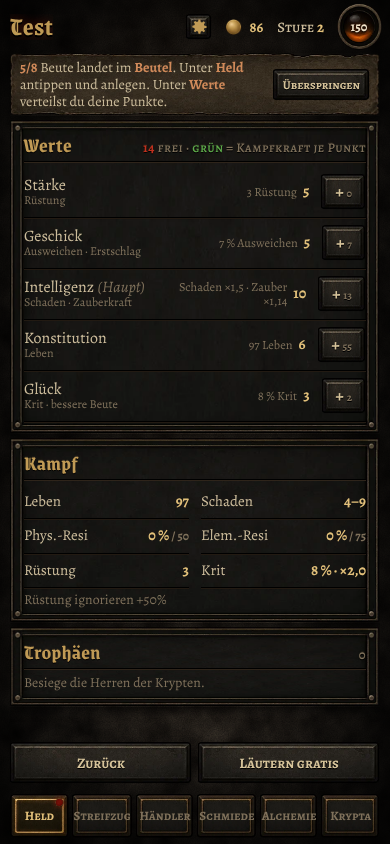
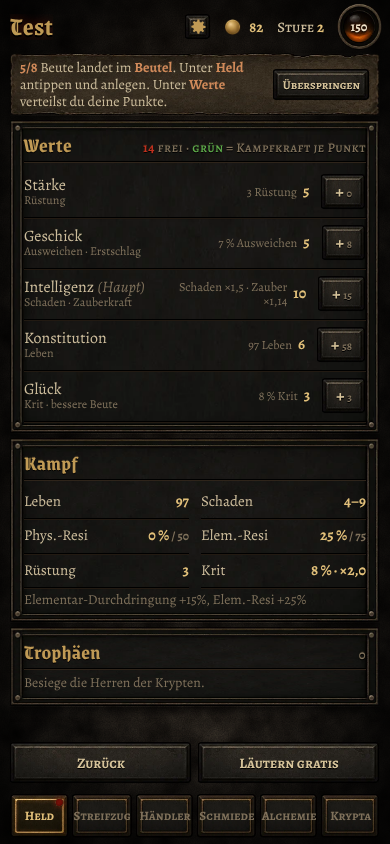
Welle 2a, Schritt 3: Elementar-Durchdringung, Fluch der Tiefe (gedeckelt), Ausgleich gemessen
- Elementar-Durchdringung (PoE): feste Punkte nach dem Deckel, darf unter 0; Bonus nur auf Stäben
- Zauberin-Passiv: 15 % Durchdringung + 25 % Elem.-Resi statt „ignoriert Rüstung zur Hälfte“
- Abgrund: −10 % Elem.-Resi je 10 Tiefen, höchstens −30 %, nur Elementar; Anzeige auf dem Tiefen-Bildschirm
- Zauberin-Hänger (~30 % der Bot-Läufe) gefunden: Feuer/Eis der Monster an ihrer Rüstung vorbei → eigene Resi,
  Monster-Spitzen höchstens 50 % Elementar
- Sternenfall −35 %, Glöckner ohne Resi; Trank-Test 600 Kämpfe; bot.mjs BOTDIAG
- Bericht, Screenshots (Abgrund mit Fluch)

Claude-Session: https://claude.ai/code/session_01K7GT1nk687RBNm1gtTozav

diff --git a/js/data.js b/js/data.js
@@ -4,7 +4,7 @@ export const CLASSES = {
   paladin:   { name: 'Paladin', main: 'str', portrait: 'paladin', hp: 5, desc: 'Heiliger Schild. Blockt 25% aller Angriffe.', weapon: 'sword', passive: { block: 0.25 } },
   assassin:  { name: 'Assassine', main: 'dex', portrait: 'assassin', hp: 5.5, desc: 'Klingen im Schatten. Erhöhte kritische Treffer, Bluten.', weapon: 'dagger', passive: { crit: 0.12, bleed: 0.25 } },
   huntress:  { name: 'Jägerin', main: 'dex', portrait: 'huntress', hp: 4.5, desc: 'Pfeil und Geduld. Erster Schuss immer vor dem Gegner.', weapon: 'bow', passive: { first: 1 } },
-  sorceress: { name: 'Zauberin', main: 'int', portrait: 'sorceress', hp: 4.6, desc: 'Arkanes Feuer. Ignoriert Rüstung zur Hälfte.', weapon: 'staff', passive: { pen: 0.5 } },
+  sorceress: { name: 'Zauberin', main: 'int', portrait: 'sorceress', hp: 4.6, desc: 'Arkanes Feuer. Selbst 25 % Elem.-Resi, durchdringt 15 % Elem.-Resi der Gegner.', weapon: 'staff', passive: { elemPen: 0.15, elemRes: 0.25 } },
   witch:     { name: 'Grabhexe', main: 'int', portrait: 'witch', hp: 4.6, desc: 'Totenmagie. Entzieht 20% des Schadens als Leben.', weapon: 'wand', passive: { leech: 0.2 } },
 };
 // Welle 1a (Besitzer 2026-11-21): nur diese drei sind wählbar. Paladin, Jägerin, Hexe bleiben im Code und kommen später wieder.
@@ -90,6 +90,8 @@ export const AFFIXES = [
   // Resistenzen (Welle 2a): klein je Teil (Stufe I ≈ 9–10 %), Deckel CFG.resCap – beide auf 75 % zu bringen braucht fast jeden Platz.
   // Eigene Gruppen: ein Teil darf beide tragen. per geeicht gegen Konstitution (tests/calib.mjs).
   { stat: 'physr', per: 1.5, pre: 'Eherner', suf: 'des Steins', pct: 1, label: 'Phys.-Resi', side: 'suf', slots: RES_SLOTS },
+  // Elementar-Durchdringung (PoE): nur auf Stäben – wirkt nur auf Feuer/Eis, sonst toter Bonus für Hieb-Klassen
+  { stat: 'elempenp', per: 1, pre: 'Glühender', suf: 'der Durchdringung', pct: 1, label: 'Elem.-Durchdringung', side: 'pre', slots: ['weapon'], kind: 'staff' },
   { stat: 'elemr', per: 2, pre: 'Gebannter', suf: 'der Elemente', pct: 1, label: 'Elem.-Resi', side: 'suf', slots: RES_SLOTS },
 ];
 // Zauber-Boni (nur auf Waffen der Klasse, die den Zauber hat): "+N % Feuerball" stärkt Schaden/Heilung/Schild/Wirkung des Zaubers.
@@ -290,12 +292,12 @@ export const SELL = { share: 0.5, legendMat: 1,
 
 // mix/res: Schadensart und Resistenz (siehe ELEMENTS) – vor dem Kampf sichtbar (Vorbereitung, enemyInfo)
 export const MONSTERS = [
-  { name: 'Verfaulter Ghul', glyph: 'ghul', mat: 'zahn' }, { name: 'Gefallener', glyph: 'fallen', mat: 'asche', mix: { fire: 0.5 } },
+  { name: 'Verfaulter Ghul', glyph: 'ghul', mat: 'zahn' }, { name: 'Gefallener', glyph: 'fallen', mat: 'asche', mix: { fire: 0.4 } },
   { name: 'Skelettkrieger', glyph: 'skelett', mat: 'staub', mix: { cold: 0.3 }, res: { phys: 0.1 } }, { name: 'Grabräuber', glyph: 'grabraeuber', mat: 'leinen' },
-  { name: 'Pestratte', glyph: 'pestratte', mat: 'schwanz' }, { name: 'Kultist der Glocke', glyph: 'kultist', mat: 'siegel', mix: { fire: 0.6 }, res: { elem: 0.1 } },
-  { name: 'Blutfürst', glyph: 'blutfuerst', mat: 'blutstein', mix: { fire: 0.4 } }, { name: 'Sumpfhexe', glyph: 'sumpfhexe', mat: 'haar', mix: { cold: 0.7 }, res: { elem: 0.15 } },
+  { name: 'Pestratte', glyph: 'pestratte', mat: 'schwanz' }, { name: 'Kultist der Glocke', glyph: 'kultist', mat: 'siegel', mix: { fire: 0.4 }, res: { elem: 0.1 } },
+  { name: 'Blutfürst', glyph: 'blutfuerst', mat: 'blutstein', mix: { fire: 0.4 } }, { name: 'Sumpfhexe', glyph: 'sumpfhexe', mat: 'haar', mix: { cold: 0.5 }, res: { elem: 0.15 } },
   { name: 'Knochenhund', glyph: 'knochenhund', mat: 'staub', mix: { cold: 0.3 } }, { name: 'Gehäuteter', glyph: 'gehaeuteter', mat: 'blutstein' },
-  { name: 'Höllenbrut', glyph: 'hoellenbrut', mat: 'asche', mix: { fire: 0.7 }, res: { elem: 0.2 } }, { name: 'Wiedergänger', glyph: 'wiedergaenger', mat: 'leinen', mix: { cold: 0.5 } },
+  { name: 'Höllenbrut', glyph: 'hoellenbrut', mat: 'asche', mix: { fire: 0.5 }, res: { elem: 0.2 } }, { name: 'Wiedergänger', glyph: 'wiedergaenger', mat: 'leinen', mix: { cold: 0.4 } },
 ];
 
 // Streifzüge: Orte mit eigenen Monstern. Freigeschaltet über Stufe.
@@ -601,7 +603,7 @@ export const EFFECT_NAMES = { dmgPct: 'Schaden', hpPct: 'Leben', armorPct: 'Rüs
   nohealSelf: 'Du kannst dich nicht heilen',
   hemorrhage: 'Bluten bei jedem Treffer – dafür nie kritisch', evadeCap: 'Ausweich-Grenze', critDmg: 'Krit-Schaden',
   tollback: 'Betäubung prallt zurück', firstEcho: 'Erster Zauber wirkt zweimal',
-  spellPct: 'Zauberschaden', ignite: 'Jeder Zauber setzt in Brand', physRes: 'Phys.-Resi', elemRes: 'Elem.-Resi' };
+  spellPct: 'Zauberschaden', ignite: 'Jeder Zauber setzt in Brand', physRes: 'Phys.-Resi', elemRes: 'Elem.-Resi', elemPen: 'Elementar-Durchdringung' };
 
 // --- Das Brett (neuer Talentbaum) ---
 // Drei Zweige, von unten nach oben: kleine Knoten, dazwischen zwei Notable (ändern eine Regel),
@@ -736,7 +738,7 @@ export const CRYPTS = [
   { id: 'c3', name: 'Das Schlachthaus', lvl: 12, glyph: 'ghoul', floors: ['Gehäuteter', 'Gefallener', 'Blutfürst', 'Höllenbrut'],
     boss: { name: 'Der Metzger von Vhal', glyph: 'butcher', mech: { execute: 0.6, rage: 0.4 }, mechText: 'Wird rasend und schlachtet Geschwächte', res: { phys: 0.2 } }, trophy: { crit: 0.03 } },
   { id: 'c4', name: 'Turm der Glocke', lvl: 20, glyph: 'horn', floors: ['Kultist der Glocke', 'Sumpfhexe', 'Blutfürst', 'Höllenbrut'],
-    boss: { name: 'Der Glöckner', glyph: 'bellringer', mech: { toll: 1 }, mechText: 'Jeder dritte Schlag betäubt dich', mix: { fire: 0.25, cold: 0.15 }, res: { phys: 0.1 } }, trophy: { armorPct: 0.1, hpPct: 0.05 } },
+    boss: { name: 'Der Glöckner', glyph: 'bellringer', mech: { toll: 1 }, mechText: 'Jeder dritte Schlag betäubt dich', mix: { fire: 0.25, cold: 0.15 } }, trophy: { armorPct: 0.1, hpPct: 0.05 } },
   { id: 'c5', name: 'Die Glocke', lvl: 26, shards: 4, floors: ['Kultist der Glocke', 'Wiedergänger', 'Blutfürst', 'Höllenbrut'],
     boss: { name: 'Der Kronenlose', glyph: 'self', mech: { mirror: 1 }, mechText: 'Kämpft mit deinen eigenen Talenten', mix: { fire: 0.25, cold: 0.25 }, res: { phys: 0.1, elem: 0.1 } }, trophy: { dmgPct: 0.1, hpPct: 0.1 } },
 ];
@@ -806,7 +808,7 @@ export const SPELL_TREE = {
   frost: [[W('frostruestung', 'Frostrüstung', '40 % des Schadens als Schild', { shieldGain: 0.4 }), W('raschekaelte', 'Rasche Kälte', 'Lädt 1 Zug schneller, +15 % Schaden', { every: -1, mult: 0.15 })],
     [W('sproede', 'Spröde', 'Gegner nimmt 4 Züge +35 % Schaden', { vuln: { v: 0.35, n: 4 } }), W('erfrierung', 'Erfrierung', 'Gegner macht 4 Züge 30 % weniger Schaden', { weaken: { v: 0.3, n: 4 } })],
     [W('ewigerwinter', 'Ewiger Winter', 'Betäubt 2 Züge', { stunTurns: 2 }), W('splittern', 'Splittern', '+100 % gegen unverwundete Gegner (über 70 % Leben)', { fresh: 1 })]],
-  meteor: [[W('sternenfall', 'Sternenfall', 'Wirkt sofort zu Kampfbeginn, 25 % weniger Schaden', { open: 1, mult: -0.25 }), W('einschlag', 'Einschlag', 'Betäubt immer, +15 % Schaden', { stun: 1, mult: 0.15 })],
+  meteor: [[W('sternenfall', 'Sternenfall', 'Wirkt sofort zu Kampfbeginn, 35 % weniger Schaden', { open: 1, mult: -0.35 }), W('einschlag', 'Einschlag', 'Betäubt immer, +15 % Schaden', { stun: 1, mult: 0.15 })],
     [W('glutfeld', 'Glutfeld', 'Brand: 25 % je Runde, 3 Runden', { burn: { v: 0.25, n: 3 } }), W('komet', 'Kometenschweif', 'Lädt 2 Züge schneller', { every: -2 })],
     [W('weltenbrand', 'Weltenbrand', '+20 % Schaden, +150 % gegen Gegner unter 30 % Leben', { execute: 1.5, mult: 0.2 }), W('gestirn', 'Gestirn', '+45 % Krit-Chance', { crit: 0.45 })]],
   // Grabhexe
@@ -989,7 +991,7 @@ export const DESCENT = {
   // `mods` je Tiefe: Platz für Siegel/Modifikatoren (Welle 2) – heute leer.
   diff: 1, lvlBase: 3, lvlPer: 2, diffPer: 0.02,
   depthMods: [],                    // Welle 2: [{ from: Tiefe, id, … }] – descAt() hängt sie an
-  resMalus: { per: 10, v: 0 },      // Resistenz-Malus: je `per` Tiefen −v auf beide Resistenzen (vor dem Deckel). Heute aus (v: 0).
+  resMalus: { per: 10, v: 0.1, max: 0.3 },   // Fluch der Tiefe: je `per` Tiefen −v Elementar-Resi (vor dem Deckel, wie D2 Hölle/PoE), höchstens −max
   gold: 1.1, xp: 0.6,               // gegenüber einem Krypta-Kampf
   item: 0.35, eliteMinR: 2, bossMinR: 3,
   heart: 0.1, eliteHeart: 0.35,

diff --git a/js/combat.js b/js/combat.js
@@ -13,17 +13,19 @@ export function evadeShare(p, k = CFG.evadeStreak) { let num = 0, t = 1; for (le
 // Schadensarten (Welle 2a, nach Diablo 2 / PoE): Rüstung wirkt nur gegen den PHYSISCHEN Anteil, Feuer und Eis gehen an ihr
 // vorbei – dagegen hilft nur Elementar-Resi (Deckel CFG.resCap 75 %). Phys.-Resi ist „Schaden reduziert um“ (D2) mit eigenem,
 // kleinerem Deckel CFG.resCapPhys 50 %, weil sie mit der Rüstung stapelt.
-// resPen: Malus vor dem Deckel (Abgrund-Tiefe, DESCENT.resMalus). Unter 0 nimmt man mehr Schaden (bis doppelt).
+// resPen: Malus vor dem Deckel, nur Elementar (Abgrund-Tiefe, DESCENT.resMalus – wie D2 Hölle / PoE-Akte).
+// pen: Elementar-Durchdringung des Angreifers (PoE): zieht NACH dem Deckel feste Punkte ab, darf unter 0 gehen (mehr Schaden).
+// Untergrenze −100 % (doppelter Schaden).
 export const resCapOf = k => k === 'phys' ? CFG.resCapPhys : CFG.resCap;
-export const resOf = (f, k) => Math.max(-1, Math.min(resCapOf(k), (f.res?.[k] || 0) - (f.resPen || 0)));
+export const resOf = (f, k, pen = 0) => Math.max(-1, Math.min(resCapOf(k), (f.res?.[k] || 0) - (k === 'elem' ? f.resPen || 0 : 0)) - (k === 'elem' ? pen : 0));
 // Rüstungs-Minderung (nur physisch): Rüstung des Ziels gegen die Stufe des Angreifers, Durchbohren zieht ab
 export const armorRed = (armor, atkLvl, pen = 0) => Math.min(0.6, armor / (armor + 20 + atkLvl * 8)) * (1 - Math.min(0.9, pen));
 // Anteile eines Hiebs: mix = { fire, cold } (Rest physisch). Für Anzeige und power() dieselbe Regel wie im Kampf.
 export const mixOf = mix => { const fire = mix?.fire || 0, cold = mix?.cold || 0; return { phys: Math.max(0, 1 - fire - cold), fire, cold }; };
 // Schadensfaktor gegen y: el = Art eines Zaubers (fehlt bei Hieben → mix des Angreifers); arm = Rüstungs-Minderung,
-// wirkt nur auf den physischen Anteil
-export function resMul(mix, y, el, arm = 0) {
-  const ph = (1 - arm) * (1 - resOf(y, 'phys')), em = 1 - resOf(y, 'elem');
+// wirkt nur auf den physischen Anteil; pen = Elementar-Durchdringung des Angreifers
+export function resMul(mix, y, el, arm = 0, pen = 0) {
+  const ph = (1 - arm) * (1 - resOf(y, 'phys')), em = 1 - resOf(y, 'elem', pen);
   if (el) return ELEMENTS[el].res === 'phys' ? ph : em;
   const m = mixOf(mix); return m.phys * ph + (m.fire + m.cold) * em;
 }
@@ -188,7 +190,7 @@ export function fight(A, B) {
   // Henker und Krit auf rohen Schaden (für Hieb und Zauber); o: Zusatz-Krit/Henker eines Zauber-Wegs, force = sicherer Krit (Kombo),
   // o.el = Schadensart des Zaubers (sonst Hieb-Mischung des Angreifers) gegen die Resistenz des Ziels
   function finish(x, y, raw, o = {}) {
-    let d = raw * resMul(x.mix, y, o.el, o.arm || 0); const ex = (x.execute || 0) + (o.execute || 0); if (ex && y.cur < y.hp * (0.3 + (x.execHp || 0))) d *= 1 + ex;   // Set „Schürze des Metzgers“ hebt die Schwelle
+    let d = raw * resMul(x.mix, y, o.el, o.arm || 0, x.elemPen || 0); const ex = (x.execute || 0) + (o.execute || 0); if (ex && y.cur < y.hp * (0.3 + (x.execHp || 0))) d *= 1 + ex;   // Set „Schürze des Metzgers“ hebt die Schwelle
     if (x.vengeance) d *= 1 + x.vengeance * (1 - Math.max(0, x.cur) / x.hp);   // Vergeltung: je weniger eigenes Leben, desto härter
     if (x.weakN > 0) d *= 1 - x.weak;                  // geschwächt: macht weniger Schaden
     if (y.vulnN > 0) d *= 1 + y.vuln;                  // verwundbar: nimmt mehr Schaden

diff --git a/js/ui.js b/js/ui.js
@@ -11,7 +11,7 @@ export const STAT_NAME = k => { if (k === 'dmg') return 'Schaden'; if (k === 'ar
   const a = AFFIXES.find(x => x.stat === k); return a ? (a.pct ? '% ' : '') + a.label : k; };
 import { itemArt, ghost, NPC_ART, MON } from './art.js';
 import { weakAdvice, wanderMap, wanderAct, wanderBusy, wanderDone, actEnemy, actChance, actOdds, packSlot, actCan, actZoneGlut, actZoneMob, pitWeek, pitPlace, pitRank, pitFoes, pitChance, pitOdds, pitBusy, pitRival, pitChallenge, pitWinHonor, pitShop, pitTierOpen, gradeOf, cryptChance, cryptOdds, threatLabel, enemyInfo, potOffer, fightReport, expedPreview, expedMap, expLinked, expDoneCount, expEvent, expChoiceOk, expPayCost,
-  descCrypts, descLeft, descCanStart, descBusy, descLvl, descAt, descRec, descMaxDepth, descMult, descNext, descNodeAt, descWellCost, descEnemy, descChance } from './game.js';
+  descCrypts, descResPen, descLeft, descCanStart, descBusy, descLvl, descAt, descRec, descMaxDepth, descMult, descNext, descNodeAt, descWellCost, descEnemy, descChance } from './game.js';
 const threat = p => { const [t, c] = threatLabel(p); return `<span class="threat t-${c}">Gefahr: ${t}</span>`; };
 
 const P = cls => `assets/portraits/${CLASSES[cls].portrait}.jpg`;
@@ -789,7 +789,7 @@ function viewDescStart(st) {
   return `<div class="col desc">${cryptTabs('desc')}
     <section class="panel dhead">${monsterArt(c.boss.glyph)}<div><h2>Der Abgrund <span class="h2r seals" title="${DESCENT.sealDay} je Tag, Krypta-Bosse und neue Ränge"><img class="matimg" src="assets/forge/grabsiegel.webp" alt="">${left}/${DESCENT.sealMax}</span></h2>
       <div class="xhead"><button class="tiny" data-action="descc" data-d="-1" ${d <= 1 ? 'disabled' : ''}>‹</button><b>Tiefe ${d}</b><button class="tiny" data-action="descc" data-d="1" ${d >= max ? 'disabled' : ''}>›</button></div>
-      <p class="small dim">${c.name} · Gegner Stufe ${at.lvl} · oben wartet ${c.boss.name.split(',')[0]}: <i>${c.boss.mechText}</i></p>
+      <p class="small dim">${c.name} · Gegner Stufe ${at.lvl}${descResPen(d) ? ` · <b class="down">Elem.-Resi −${Math.round(descResPen(d) * 100)} %</b>` : ''} · oben wartet ${c.boss.name.split(',')[0]}: <i>${c.boss.mechText}</i></p>
       <p class="small drec">Rekord <b>Tiefe ${R.best}</b> · diese Woche <b class="${R.wBest >= R.best && R.best ? 'up' : ''}">${R.wBest}</b></p></div></section>
     <section class="panel drules"><h2>Rausholen oder verlieren</h2>
       <p class="small">Jeder Raum ein Kampf. <b>Leben und Trank-Ladungen füllen sich unten nicht auf.</b></p>

diff --git a/js/state.js b/js/state.js
@@ -180,6 +180,7 @@ export function stats(p = S) {
     haste: (e.haste || 0) + (st.haste || 0) / 100,
     // Resistenzen roh (ungedeckelt): der Deckel CFG.resCap wirkt im Kampf (resOf), die Werte-Ansicht zeigt beides
     res: { phys: P('physr') + (e.physRes || 0), elem: P('elemr') + (e.elemRes || 0) },
+    elemPen: (e.elemPen || 0) + P('elempenp'),   // Elementar-Durchdringung: Klasse (Zauberin) + Stab-Bonus
     armor: Math.round((st.armor + st.str * CFG.strArmor) * (1 + (e.armorPct || 0))),
     dmg: [Math.round((base[0] + st.dmgBonus) * dm), Math.round((base[1] + st.dmgBonus) * dm)],
     hp: Math.round(st.con * c.hp * (CFG.hpBase + p.lvl * CFG.hpPerLvl) * (1 + (e.hpPct || 0) + P('lifep'))) };
@@ -227,7 +228,7 @@ export function power(A = stats()) {
   const stunner = (A.spells || []).some(s => s.kind === 'stun' || s.m?.stun), dotter = (A.spells || []).some(s => s.kind === 'dot' || s.m?.poison);
   for (const s of A.spells || []) {
     const m = s.m || {}, cm = (A.critMult || 2) - 1;
-    const elem = s.el && s.el !== 'phys', sd = strike * A.amp * (elem ? 1 : 1 - red) * hit * onHit * resMul(null, FOE_RES, s.el || 'phys');   // Feuer/Eis: an der Rüstung vorbei
+    const elem = s.el && s.el !== 'phys', sd = strike * A.amp * (elem ? 1 : 1 - red) * hit * onHit * resMul(null, FOE_RES, s.el || 'phys', 0, A.elemPen || 0);   // Feuer/Eis: an der Rüstung vorbei
     const b = s.boost || 1;   // Zauber-Bonus von der Waffe und Wege (mult)
     let v = b * (s.kind === 'multi' ? sd * s.mult * s.hits : s.kind === 'dot' ? sd * s.mult * 3 : s.kind === 'buff' ? dpt * s.v * 2
       : s.kind === 'heal' || s.kind === 'shield' ? 0 : sd * s.mult * (s.kind === 'mark' ? 1.4 : s.kind === 'stun' ? 1.5 : 1));

diff --git a/js/game.js b/js/game.js
@@ -552,8 +552,8 @@ export function descEnemy(nd, u = G.S.desc.unrest) {
     m.name = `${m.name} (Elite)`; }
   return m;
 }
-// Resistenz-Malus je Tiefe (DESCENT.resMalus, heute v: 0 = aus) – wirkt vor dem Deckel, wie im Kampf (resPen)
-export const descResPen = d => Math.floor((d || 0) / DESCENT.resMalus.per) * DESCENT.resMalus.v;
+// Fluch der Tiefe (DESCENT.resMalus): Elementar-Resi −v je `per` Tiefen, höchstens −max – wirkt vor dem Deckel (resPen im Kampf)
+export const descResPen = d => { const M = DESCENT.resMalus; return Math.min(M.max, Math.floor((d || 0) / M.per) * M.v); };
 const descHero = () => { const A = { ...G.stats(), belt: G.beltCombat() }; A.cur0 = Math.max(1, Math.round(A.hp * G.S.desc.hpf)); A.resPen = descResPen(G.S.desc.d); return A; };
 // Siegchance mit dem Leben, das du gerade hast (j = Raum-Index, 'boss' oder 'stair')
 export function descChance(j) {

diff --git a/berichte/welle2a-resis.md b/berichte/welle2a-resis.md
@@ -1,40 +1,38 @@
 # Welle 2a – Resistenzen, Schadensarten, Waffen-Deckel (2026-11-22, Branch `claude/resistenzen`)
-Zweiter Schritt auf Zuruf „wie bei Diablo und PoE, sinnvoll fürs Spiel“ (beantwortet die offenen Fragen 1–3 der ersten Fassung).
+Drei Schritte: (1) Resis + Waffen-Deckel, (2) „wie D2/PoE“, (3) Antworten des Besitzers: Durchdringung, Fluch der Tiefe mit Deckel.
 
-**Gebaut**
-- Schadensarten physisch/Feuer/Eis; Feuer+Eis → **Elementar**. Eine Regel (`resMul`/`resOf`/`armorRed`, combat.js) in `finish()`.
-- **Wie D2/PoE: Rüstung mindert nur den physischen Anteil.** Feuer und Eis gehen an ihr vorbei – dagegen hilft nur Elem.-Resi.
-  Gilt in beide Richtungen: Feuerball/Frostnova/Meteor ignorieren die Rüstung des Gegners (Zauber-Ansicht: „Feuer · ignoriert Rüstung“).
-- Deckel: **Elementar 75 %** (D2/PoE), **Phys. 50 %** (D2 „Schaden reduziert um“ – stapelt mit Rüstung, darum niedriger).
-- Affixe (Suffix, Rüstungsteile + Schmuck, beide auf einem Teil möglich): Elem.-Resi Stufe I 26–30 % · V 8–10 % (wie D2-Einzelresi),
-  Phys.-Resi I 20–23 % · V 6–8 %. 75 % Elementar = drei Teile Stufe I oder sechs mittlere; der Druck kommt später mit dem Abgrund-Malus
-  (`DESCENT.resMalus`, Eintrag vorhanden, **aus**) – wie D2 Hölle / PoE Akt-Malus.
-- Gegner `mix`/`res`: Monster Ø 33 % Elementar, Resi nur bei wenigen; jeder Boss eine erkennbare Mischung (Gerlinde Eis 40 %,
-  Aschenkönig Feuer 50 % + Elem.-Resi 15 % …). Vorbereitung: „Schaden Phys 60 · Eis 40 %“, „Resi Elem 10 %“, „Trifft dich“ mit deiner Resi.
-- Werte-Ansicht „Phys.-Resi x % / 50“, „Elem.-Resi x % / 75“ (darüber in Klammern). Waffen-Deckel: Grundschaden wirkt höchstens wie
-  Heldenstufe + 10, Tooltip „wirksam …“ + „voll ab Heldenstufe N“. Screenshots (iPhone 13): `welle2a-vorbereitung/werte/zauber.png`.
+**Wie es jetzt ist**
+- Schadensarten physisch/Feuer/Eis, Feuer+Eis → Elementar. **Rüstung mindert nur den physischen Teil** (D2/PoE), Feuer/Eis
+  gehen vorbei – auch Feuerball/Frostnova/Meteor durch die Rüstung der Gegner. Deckel Elementar 75 %, Phys. 50 % (D2).
+- Resi-Boni (Suffix, Rüstung + Schmuck): Elem. Stufe I 26–30 %, Phys. 20–23 %. Gegner haben `mix`/`res`, vorher sichtbar.
+- **Elementar-Durchdringung** (PoE, feste Punkte, nicht „halb“): zieht nach dem Deckel ab, darf unter 0 gehen (mehr Schaden).
+  Zauberin-Passiv: **15 % Durchdringung + 25 % eigene Elem.-Resi** (statt „ignoriert Rüstung zur Hälfte“). Bonus
+  „Elem.-Durchdringung“ nur auf Stäben (Stufe I 13–15 %, geeicht 0,91).
+- **Fluch der Tiefe** im Abgrund: −10 % Elem.-Resi je 10 Tiefen, **höchstens −30 %** (nie −200), nur Elementar (wie D2/PoE),
+  vor dem Deckel. Steht auf dem Tiefen-Bildschirm („Elem.-Resi −10 %“, `welle2a-abgrund.png`).
+- Waffen-Grundschaden wirkt höchstens wie Heldenstufe + 10, Tooltip zeigt „wirksam …“ und „voll ab Heldenstufe N“.
 
-**Folge-Ausgleich (gemessen, nicht geschätzt)**
-- Ohne Resi kommt laut Kampfkraft-Modell ~19 % mehr Schaden an → `monDmg` 1,0 → 0,9.
-- Rüstung schützt nur noch ~⅔ des Schadens: Bonus Rüstung `per` 8 → 16 (Eichung wieder 0,69/1,13/0,79 wie vorher).
-- Zaubertempo fiel 0,76 → 0,59 (Barbar) → `per` 1,33 → 1,6 (Stufe I 21–24 %, Ausnahme wie Krit-Schaden: wirkt nur auf Zauber).
-- „Rüstung ignorieren“ nicht mehr auf Stäben; „Lohe“ 6 → 8 % (fiel unter den Rahmen). Glöckner (Krypta 4) hielt die Zauberin in 2/8 Bot-Läufen
-  auf: jetzt Feuer 25 % + Eis 15 %, Phys.- statt Elem.-Resi. Erster Kultist Feuer 30 %, keine Resi. Bosse mit Elem.-Resi höchstens 15 % (die Zauberin hat nur Feuer/Eis).
+**Gemessen und ausgeglichen (Grund → Änderung)**
+- Ohne Resi kommt mehr Schaden an → Monsterschaden ×0,9. Rüstung deckt nur ~⅔ → Bonus Rüstung `per` 8 → 16.
+- Zaubertempo fiel unter die Eich-Schranke → `per` 1,6 (Stufe I 21–24 %, Ausnahme „wirkt nur auf Zauber“).
+- **Zauberin-Bots hingen in ~30 % der Läufe** (vorher 1/40) – Suche mit je 20 Läufen: nicht Glöckner, Waffen-Deckel, Passiv
+  oder Resi-Boni, sondern **Feuer/Eis der Monster an ihrer Rüstung vorbei** (ohne Gegner-Mischung 0/20). Sie hat wenig Leben
+  und lebt von Rüstung. Lösung: 25 % eigene Elem.-Resi im Passiv (→ 1–2/20), Monster-Spitzen 70 % → höchstens 50 %.
+- Sternenfall (Meteor sofort) +9 → +19 Pkt (Meteor geht durch Rüstung) → Preis −25 → −35 % (jetzt +12…16).
+- „Lohe“ 6 → 8 %, „Rüstung ignorieren“ nicht auf Stäben, Glöckner/Kultist/Aschenkönig weniger Elementar/Resi.
 
 **Messwerte vor Welle 2a → jetzt**
-- Erster Treffer gewinnt (St. 22, GS 59): Zauberin 18,3 → 1,8 % · Assassine 7,7 → 0 · Barbar 8,9 → 0,3 %.
-- Akt VI Stufe (6 Läufe): 21/21/21 → 20–21 / 20–22 / 22–23 (Zauberin/Assassine/Barbar; acts.mjs schwankt ±2).
-- Bots 3 Tage: Zauberin 8/8, Barbar 4/4 wie vorher; Assassine 9/10 (einmal Krypta 4 nicht versucht, Geschichte trotzdem fertig).
-- Eichung St. 20: Elem.-Resi **0,67** erstes Teil, **1,13** gestapelt (vorher 0,15/0,20); Phys.-Resi 0,44 / 0,33 (Deckel 50 %).
-- Abgrund `--deep` St. 20/30/40: Zauberin T8/12/16 → T7/12/16 · Assassine T9/14/18 → T8/13/17 · Barbar T14/19/24 → T13/18/23.
-  Stufe-10-Boss 38 → 22 % (Rahmen 10–60): ohne Resi ist der Abgrund spürbar härter – gewollt, dort soll Resi zählen.
+- Erster Treffer gewinnt (St. 22, GS 59): Zauberin 18,3 → 0,0 % · Assassine 7,7 → 0 · Barbar 8,9 → 0,5 %.
+- Akt VI Stufe/Glut (6 Läufe): Zauberin 21/3543 → 21/3216 · Assassine 21/3495 → 21/3702 · Barbar 21/3503 → 22/4178.
+- Bots 3 Tage (je 12–20 Läufe): hängend Zauberin 1/40 → 2/20, Assassine 2/12 → 2/12, Barbar 1/12 → 3/12.
+- Abgrund `--deep` mit Fluch (St. 20/30/40): Zauberin T8/12/16 → T8/12/16 · Assassine T9/14/18 → T9/13/17 · Barbar
+  T14/19/24 → T13/18/23. Stufe-10-Boss 38 → 28 %.
+- Eichung St. 20: Elem.-Resi 0,59 (gestapelt 0,76), Phys.-Resi 0,54, Durchdringung 0,91, Rüstung 0,85, Zaubertempo 0,80.
 
-**Tests:** voller `sh tests/run.sh` grün. Logic 105: Feuer/Eis vs. Elementar, Hieb vs. Phys., Feuerball ignoriert Rüstung, Hieb nicht,
-Rüstung nur auf phys. Anteil, Deckel 75/50, Malus vor Deckel (aus), Waffen-Deckel. calib.mjs: fester Keim + 4 Würfe, Klassen-Ansicht
-repariert; caps.mjs: „Rüstung ignorieren“ bei reinen Feuer/Eis-Klassen als Regel ausgewiesen (abgeleitet aus `SPELLS`).
+**Tests:** voller `sh tests/run.sh` grün (1:43). Logic 106: Schadensarten, Rüstung nur physisch, Deckel 75/50, Fluch gedeckelt
+(Tiefe 9/10/25/30/5000), Durchdringung nach dem Deckel und unter 0, Passiv + Stab-Bonus, Waffen-Deckel. Trank-Test im Gesamtlauf
+600 statt 300 Kämpfe (Bollwerk −2,0 war Rauschen, bei 600 +1,5…+9,3). bot.mjs: `BOTDIAG=1` zeigt, wo ein Lauf steht.
 
-**Offene Fragen**
-1. Passiv der Zauberin („Ignoriert Rüstung zur Hälfte“) hilft nur noch ihren Hieben. Etwas anderes geben (z. B. Elem.-Resi oder Brand)?
-2. Phys.-Resi bleibt unter dem Hauptattribut (0,44) – wie in D2 eine Nebensache neben Rüstung. Recht so?
-3. Malus je Abgrund-Tiefe einschalten (Vorschlag: −10 % je 10 Tiefen, wie PoE)? Erst dann wird 75 % zum Ziel.
-4. descent.mjs „Glocken-Beute“ zeigt für die Zauberin T0 – schon vor dieser Welle; vermutlich Messfehler im Test.
+**Offen**
+1. Barbar-Bots hängen etwas öfter (3/12 statt 1/12, Glöckner/Kultist) – im Rauschen, beim nächsten Schritt nachmessen.
+2. Der Fluch beginnt bei Tiefe 10; ob −30 % ab Tiefe 30 zum Farmen passt, zeigt erst echtes Spiel.

diff --git a/SYSTEME.md b/SYSTEME.md
@@ -18,7 +18,9 @@ eines Systems seinen Block hier lesen** (`grep -n '^\*\*' SYSTEME.md` zeigt die 
   `resOf`/`resMul`/`mixOf`/`armorRed` in combat.js, angewandt in `finish()` (Hieb und Zauber). **Rüstung mindert nur den physischen
   Anteil**, Feuer/Eis gehen vorbei (auch Zauber der Zauberin → „Rüstung ignorieren“ ist für sie fast wertlos, `penp` nicht auf Stäben).
   Deckel Elementar `CFG.resCap` 75 %, Phys. `CFG.resCapPhys` 50 % (D2). `stats().res` ist roh (Werte-Ansicht zeigt beides).
-  Affixe `physr`/`elemr` (Suffix, Rüstung+Schmuck, Stufe I 20–23 / 26–30 %).
+  Affixe `physr`/`elemr` (Suffix, Rüstung+Schmuck, Stufe I 20–23 / 26–30 %). **Elementar-Durchdringung** `elemPen` (PoE):
+  zieht nach dem Deckel ab, darf unter 0 (Zauberin-Passiv 15 % + 25 % Elem.-Resi; Bonus `elempenp` nur auf Stäben).
+  **Fluch der Tiefe** `DESCENT.resMalus` −10 % Elem.-Resi je 10 Tiefen, höchstens −30 % (`descResPen`, Anzeige im Abgrund).
   `power()` rechnet gegen den gemittelten Gegner (`FOE_MIX`/`FOE_RES`, aus den Daten). Abgrund-Malus `DESCENT.resMalus` (heute v: 0).
 - **Waffen-Deckel** `wpnDmg(it, heldenstufe)` in loot.js: Grundschaden wirkt höchstens wie GS Heldenstufe + `CFG.wpnLvlAdd`;
   Tooltip zeigt „wirksam …“ + „voll ab Heldenstufe N“.
